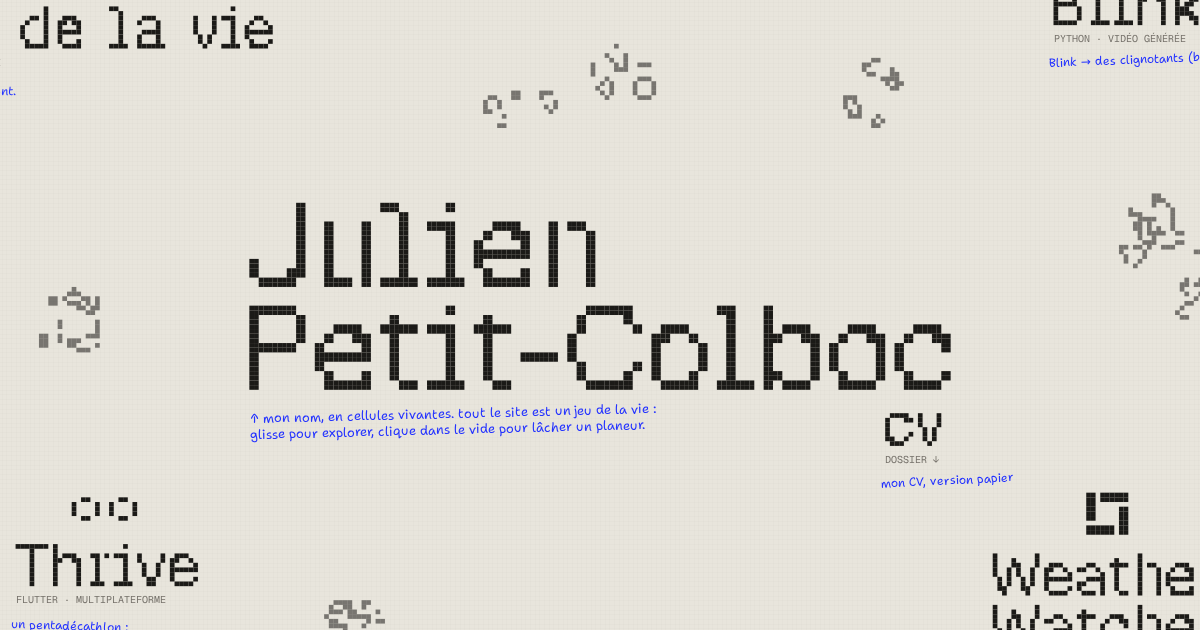
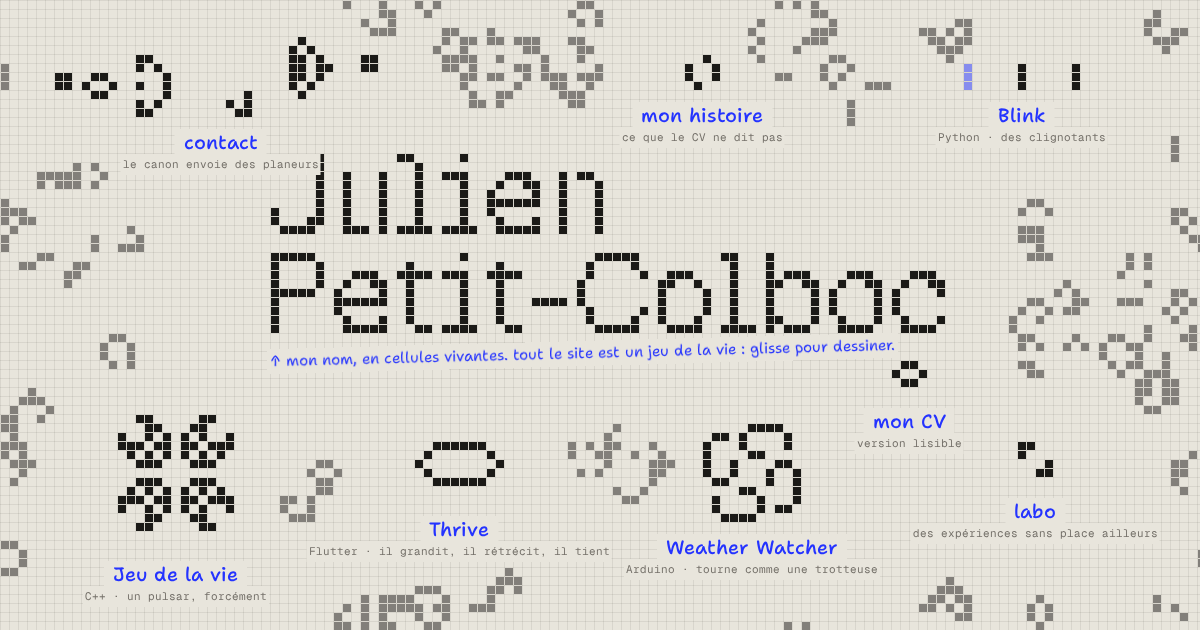
Regenerate og.png, let og.mjs reuse a running preview, update README and screenshot script

diff --git a/src/styles/global.css b/src/styles/global.css
@@ -208,8 +208,6 @@ a.ent:focus-visible .name {
 .br {
   bottom: 14px;
   right: 16px;
-  text-transform: uppercase;
-  letter-spacing: .05em;
 }
 
 .bl b {
@@ -279,6 +277,8 @@ a.flag:hover {
   padding: 6px 10px;
   border: 1px solid var(--ink);
   background: var(--paper);
+  text-transform: uppercase;
+  letter-spacing: .05em;
 }
 
 #list-btn:hover {
@@ -757,11 +757,6 @@ a.flag:hover {
 
   .page-media {
     position: static;
-  }
-
-  #list-btn {
-    font-size: 14px;
-    padding: 8px 14px;
   }
 
   .cv-section {

diff --git a/src/scripts/board/types.ts b/src/scripts/board/types.ts
@@ -1,4 +1,4 @@
-import type { At, Box } from './layout';
+import type { At } from './layout';
 import type { PatternName } from './patterns';
 
 export interface EntityConfig {
@@ -33,5 +33,3 @@ export interface Structure {
   hurt: boolean;
   shots: number;
 }
-
-export type { Box };

diff --git a/README.md b/README.md
@@ -1,9 +1,9 @@
 # portfolio-astro
 
-Julien Petit-Colboc's portfolio: a Game of Life board rendered on a canvas, with
+Julien Petit-Colboc's portfolio: a one-screen Game of Life board you can draw on, with
 project pages, a CV page and a French/English static build.
 
-The visual reference is `design/board.html`. It is kept as-is for comparison; the
+The visual reference is `design/board-v2.html`. It is kept as-is for comparison; the
 Astro site is the port of that prototype.
 
 ## Stack
@@ -22,7 +22,7 @@ three.js is used only by the lab page (loaded on demand); no GSAP, Lenis or clie
 ```bash
 npm install
 npm run dev        # http://localhost:4321
-npm run build      # 16 static pages in dist/
+npm run build      # 17 static pages in dist/
 npm run preview    # serve dist/
 npm run check      # astro check
 npm test           # vitest run
@@ -72,12 +72,15 @@ publishing. Do not invent facts about Julien in this repository.
 ### Project slugs
 
 Slugs are computed from the RxResume project names (`slugify`), for example
-`Jeu de la vie` becomes `/projets/jeu-de-la-vie/`. Board placement, emblem,
-margin note and capture are a site-only overlay in `src/data/board.ts`, keyed by
-that slug. A project that exists in RxResume but not in the overlay is still
-rendered: its emblem and position are chosen deterministically on rings around
-the name. An overlay entry without a matching RxResume project is ignored
-(RxResume stays the source of truth for projects).
+`Jeu de la vie` becomes `/projets/jeu-de-la-vie/`. Board placement, pattern, joke line,
+page note and capture are a site-only overlay in `src/data/board.ts`, keyed by that slug
+(positions are screen fractions per orientation, `l` landscape / `p` portrait). A project
+that exists in RxResume but not in the overlay is still rendered, in the list and as a page:
+on the board it gets a deterministic pattern and a free slot found at runtime (a scan for a
+free rectangle that avoids every pattern, label, keep-clear zone and HUD corner). If the
+screen has no room left it is left off the board with a `[board] no free slot` console
+warning. An overlay entry without a matching RxResume project is ignored (RxResume stays the
+source of truth for projects).
 
 ## Routes
 
@@ -104,41 +107,57 @@ time, not rendered on the client.
 
 ## Lab and story
 
-Two hand-placed structures sit on the board next to the projects: the lab (`labo`, a
-beacon) and "mon histoire" / "my story" (a toad). Their position, emblem and size live in
-`BOARD_PAGES` in `src/data/board.ts`; their text, label and margin note in `src/i18n`.
-They are kept clear of the name, the CV, the gun and its glider lane, and auto-placed
-RxResume projects avoid them too (`tests/board-pages.test.ts`).
+Two hand-placed patterns sit on the board next to the projects: the lab (`labo`, a beacon)
+and "mon histoire" / "my story" (a toad). Their position and pattern live in `BOARD_PAGES`
+in `src/data/board.ts`; their name, joke line, label and margin note in `src/i18n`.
 
 - The lab page lists the experiments of `src/data/lab.ts`. The first one renders
-  `public/media/arduino.glb` as live ASCII with three.js `AsciiEffect`; drag to rotate,
-  it turns by itself unless reduced motion is requested, and follows the theme.
+  `public/media/arduino.glb` with three.js at 320×200, then pixelates it (see below); drag to
+  rotate, it turns by itself unless reduced motion is requested, and it follows the theme.
   three.js is imported only once the viewer is on screen.
 - The story page is a placeholder (`[placeholder]` copy) until the real text is written.
 
 ## Board
 
-The engine lives in `src/scripts/board/`:
+The board fits the viewport exactly: no pan, no zoom. The cell size comes from the name
+(about 60% of the width on desktop, 72% on phones), the grid covers the screen, and every
+structure is placed by screen fractions. The engine lives in `src/scripts/board/`:
 
-- `index.ts`: bootstrap, generation loop, dive navigation, list/theme/minimap
-  wiring;
-- `life.ts`: world stepping and heat;
-- `structures.ts`: emblems, guns, intrusion/heal;
-- `patterns.ts`: Life patterns;
-- `render.ts` / `dither.ts`: canvas and project capture rendering;
-- `camera.ts`: zoom/pan clamping;
-- `input.ts`: drag, paint, glider drop, wheel and pinch;
-- `return-flag.ts`: the `jpc-from` session flag that replays the reverse zoom on Back;
-- `minimap.ts`: minimap rendering.
+- `index.ts`: bootstrap, layout (re-run on resize), generation loop, dive and return, list;
+- `layout.ts`: pure geometry: orientation, cell size, anchors, footprints, keep-clear boxes;
+- `slots.ts`: pure free-rectangle finder for projects outside the overlay;
+- `life.ts`: world stepping and heat, seeding, keep-clear, the glider fed from an edge;
+- `structures.ts`: private boards per pattern, intrusion, release, regrowth, healing, the gun;
+- `patterns.ts`: Life patterns (pulsar, penta, blinkers, galaxy, beacon, toad, beehive, gun);
+- `input.ts`: drag to draw (continuous strokes), tap for a glider;
+- `render.ts`: canvas drawing;
+- `return-flag.ts`: the `jpc-from` session flag that replays the reverse zoom on Back.
 
-Controls: drag to explore, wheel/pinch to zoom, click an empty cell to drop a
-glider, `[✎ dessiner]` to paint, project/CV text to dive. Activating contact goes
-to `mailto:` or the first profile. `?from=<slug>` starts zoomed on that project
-and plays the reverse zoom-out. A browser Back finds the same slug in `sessionStorage`
-(`jpc-from`); the board puts it back on `pagehide`, so Back, Forward, Back replays it again.
+Names and links are server-rendered: each pattern has a real `<a>` (hit area over the
+pattern, name in Shantell Sans, joke line in mono) that the script positions. Hover or focus
+underlines the name and tints the pattern.
 
-The theme is stored under `jpc-theme` and applied inline before paint so night
-mode does not flash. `prefers-reduced-motion` disables the intro and dives.
+Controls: drag to draw, click empty space to drop a glider, click a name to dive. A dive
+scales the stage 16× toward the pattern (about 750 ms), then navigates. `?from=<slug>` starts
+at that scale on that pattern and animates back to 1. A browser Back finds the same slug in
+`sessionStorage` (`jpc-from`); the board puts it back on `pagehide`, so Back, Forward, Back
+replays it again. Contact goes to `mailto:` or the first profile, no dive.
+
+`prefers-reduced-motion` disables the simulation steps (the board is static, drawing still
+works), the intro and the dive: links navigate directly.
+
+The theme is stored under `jpc-theme` and applied inline before paint so night mode does not
+flash (19:00–6:59 by default). The HUD and every page bar carry the same two flags (FR / EN,
+linking to the other language's equivalent page) and the 7×7 pixel sun/moon toggle, which
+shows the theme you switch to.
+
+### Pixelated previews
+
+Project pages draw the capture into a 160-px-wide canvas and quantise it to five ink levels
+between paper and ink (light is paper on the paper theme, ink at night) plus the accent for
+saturated colours (`src/scripts/pixel/quantize.ts`, pure and tested), shown upscaled with
+`image-rendering: pixelated` and re-coloured when the theme changes. The lab page does the
+same with the three.js render (`src/scripts/lab/model.ts`).
 
 ## Tests and screenshots
 
@@ -148,7 +167,7 @@ npm run check
 ```
 
 The optional screenshot script compares the Astro home page with
-`design/board.html`:
+`design/board-v2.html`:
 
 ```bash
 PLAYWRIGHT_MODULE=/path/to/playwright/index.mjs \
@@ -199,8 +218,8 @@ This script:
 1. Runs `npm run build`
 2. Starts a preview server on port 4411
 3. Opens the home page in headless Chromium at 1200×630
-4. Waits for the intro animation to finish (~4 seconds)
-5. Hides the HUD/minimap
+4. Waits for the intro (cells fade in over about 1.4 s)
+5. Hides the HUD and the list panel
 6. Screenshots the result to `public/og.png`
 
 The Playwright binary is at `/tmp/shot/node_modules/playwright/index.mjs`
